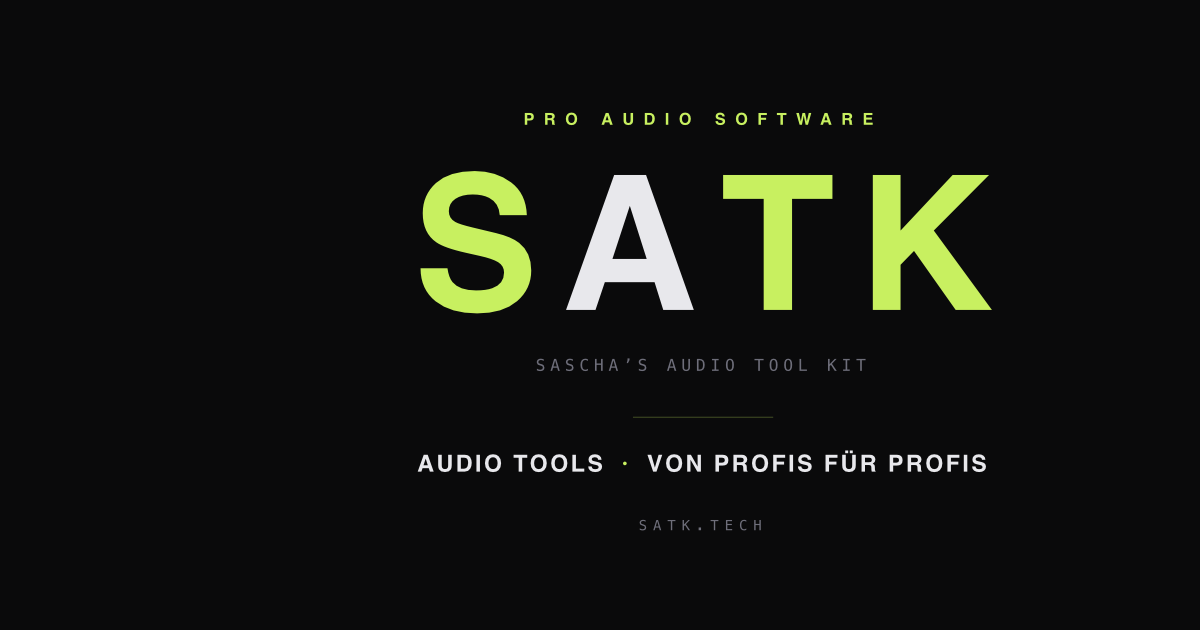
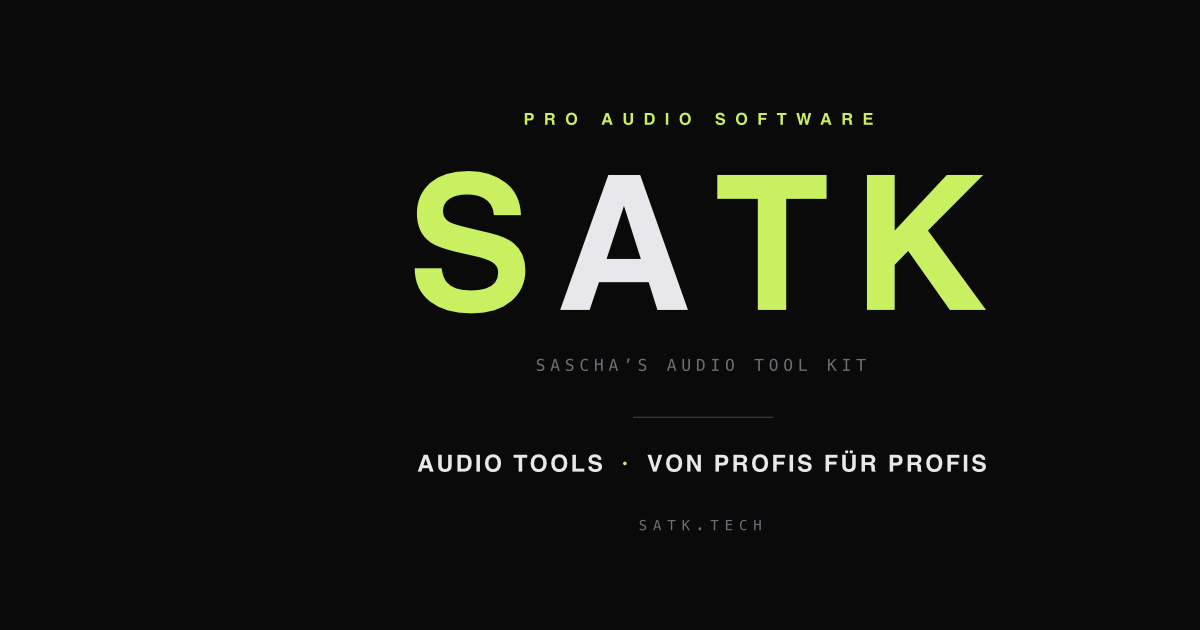
SEO Polish: og-image mittig, sitemap mit neuen Seiten, og-Tags auf 6 Seiten (index, shop, broadcast-meter-pro, overdub-studio-pro, loudness-correct, support)

diff --git a/overdub-studio-pro.html b/overdub-studio-pro.html
@@ -5,6 +5,21 @@
 <meta name="viewport" content="width=device-width, initial-scale=1.0">
 <title>SATK Overdub Studio – Voice-Over gegen Bewegtbild, broadcast-grade</title>
 <meta name="description" content="SATK Overdub Studio: Video laden, Skript laden, sprechen, fertig. Auto Edit, AutoMix mit EBU R128, Smart Prompter, MXF Round-Trip — die App für Voice-Over-Produktion gegen Bewegtbild auf macOS.">
+
+<!-- Open Graph / Social -->
+<meta property="og:type" content="website">
+<meta property="og:title" content="SATK Overdub Studio – Voice-Over gegen Bewegtbild">
+<meta property="og:description" content="Video laden, Skript laden, sprechen, fertig. Auto Edit, AutoMix mit EBU R128, Smart Prompter, MXF Round-Trip — broadcast-grade auf macOS.">
+<meta property="og:url" content="https://satk.tech/overdub-studio-pro.html">
+<meta property="og:image" content="https://satk.tech/og-image.png">
+<meta property="og:image:width" content="1200">
+<meta property="og:image:height" content="630">
+<meta property="og:site_name" content="SATK – Sascha&rsquo;s Audio Tool Kit">
+<meta property="og:locale" content="de_DE">
+<meta name="twitter:card" content="summary_large_image">
+<meta name="twitter:title" content="SATK Overdub Studio – Voice-Over gegen Bewegtbild">
+<meta name="twitter:description" content="Video laden, Skript laden, sprechen, fertig. AutoMix R128, Smart Prompter, MXF Round-Trip auf macOS.">
+<meta name="twitter:image" content="https://satk.tech/og-image.png">
 <link rel="preconnect" href="https://fonts.googleapis.com">
 <link href="https://fonts.googleapis.com/css2?family=DM+Mono:wght@300;400;500&family=Syne:wght@400;600;700;800&display=swap" rel="stylesheet">
 <style>

diff --git a/broadcast-meter-pro.html b/broadcast-meter-pro.html
@@ -5,6 +5,21 @@
 <meta name="viewport" content="width=device-width, initial-scale=1.0">
 <title>SATK Broadcast Meter – EBU R128 Plugin & App für Broadcast</title>
 <meta name="description" content="EBU R128 / ITU-R BS.1770-4 Loudness-Metering: PPM, LUFS, True Peak, FFT, Goniometer, Sprachklarheit. Plugin (VST3/AU), macOS-, iPad- und iPhone-App.">
+
+<!-- Open Graph / Social -->
+<meta property="og:type" content="website">
+<meta property="og:title" content="SATK Broadcast Meter – EBU R128 Plugin &amp; App">
+<meta property="og:description" content="Loudness-Metering nach EBU R128 / ITU-R BS.1770-4. Plugin, macOS, iPad und iPhone Mini — mit KI-gestützter Sprachklarheit und Live-Forecast.">
+<meta property="og:url" content="https://satk.tech/broadcast-meter-pro.html">
+<meta property="og:image" content="https://satk.tech/og-image.png">
+<meta property="og:image:width" content="1200">
+<meta property="og:image:height" content="630">
+<meta property="og:site_name" content="SATK – Sascha&rsquo;s Audio Tool Kit">
+<meta property="og:locale" content="de_DE">
+<meta name="twitter:card" content="summary_large_image">
+<meta name="twitter:title" content="SATK Broadcast Meter – EBU R128 Plugin &amp; App">
+<meta name="twitter:description" content="Loudness-Metering nach EBU R128 / ITU-R BS.1770-4. Plugin, macOS, iPad und iPhone Mini — mit KI-gestützter Sprachklarheit und Live-Forecast.">
+<meta name="twitter:image" content="https://satk.tech/og-image.png">
 <link rel="preconnect" href="https://fonts.googleapis.com">
 <link href="https://fonts.googleapis.com/css2?family=DM+Mono:wght@300;400;500&family=Syne:wght@400;600;700;800&display=swap" rel="stylesheet">
 <style>

diff --git a/loudness-correct.html b/loudness-correct.html
@@ -5,6 +5,21 @@
 <meta name="viewport" content="width=device-width, initial-scale=1.0">
 <title>SATK Loudness Correct – EBU R128 / ITU-R BS.1770-4 Loudness-Korrektur</title>
 <meta name="description" content="Offline-Lautheitskorrektur nach EBU R128, ATSC A/85, Netflix, Spotify, YouTube & Co. Two-Pass mit Verify-and-Refine auf ±0,1 LU. macOS Standalone + iPad.">
+
+<!-- Open Graph / Social -->
+<meta property="og:type" content="website">
+<meta property="og:title" content="SATK Loudness Correct – EBU R128 Loudness-Korrektur">
+<meta property="og:description" content="Offline-Lautheitskorrektur. Two-Pass mit Verify-and-Refine auf ±0,1 LU. 16 Delivery-Presets (EBU R128, ATSC A/85, Netflix, Spotify, YouTube). macOS + iPad.">
+<meta property="og:url" content="https://satk.tech/loudness-correct.html">
+<meta property="og:image" content="https://satk.tech/og-image.png">
+<meta property="og:image:width" content="1200">
+<meta property="og:image:height" content="630">
+<meta property="og:site_name" content="SATK – Sascha&rsquo;s Audio Tool Kit">
+<meta property="og:locale" content="de_DE">
+<meta name="twitter:card" content="summary_large_image">
+<meta name="twitter:title" content="SATK Loudness Correct – EBU R128 Loudness-Korrektur">
+<meta name="twitter:description" content="Offline R128 / ITU-R BS.1770-4. 16 Delivery-Presets, Verify-and-Refine, Mono bis 9.1.6.">
+<meta name="twitter:image" content="https://satk.tech/og-image.png">
 <link rel="preconnect" href="https://fonts.googleapis.com">
 <link href="https://fonts.googleapis.com/css2?family=DM+Mono:wght@300;400;500&family=Syne:wght@400;600;700;800&display=swap" rel="stylesheet">
 <style>

diff --git a/index.html b/index.html
@@ -5,6 +5,22 @@
 <meta name="viewport" content="width=device-width, initial-scale=1.0">
 <title>SATK Shop – Professional Audio Software</title>
 <meta name="description" content="SATK Pro Software: Broadcast Meter, Overdub Studio, Loudness Correct. Plugin VST3/AU, macOS- und iPad-Apps für Broadcast und Postproduktion.">
+
+<!-- Open Graph / Social -->
+<meta property="og:type" content="website">
+<meta property="og:title" content="SATK – Pro Audio Software für Broadcast &amp; Postproduktion">
+<meta property="og:description" content="Apps und Plugins für professionelle Medienproduktionen. Broadcast Meter, Overdub Studio, Loudness Correct.">
+<meta property="og:url" content="https://satk.tech/">
+<meta property="og:image" content="https://satk.tech/og-image.png">
+<meta property="og:image:width" content="1200">
+<meta property="og:image:height" content="630">
+<meta property="og:site_name" content="SATK – Sascha&rsquo;s Audio Tool Kit">
+<meta property="og:locale" content="de_DE">
+<meta property="og:locale:alternate" content="en_US">
+<meta name="twitter:card" content="summary_large_image">
+<meta name="twitter:title" content="SATK – Pro Audio Software für Broadcast &amp; Postproduktion">
+<meta name="twitter:description" content="Apps und Plugins für professionelle Medienproduktionen. Broadcast Meter, Overdub Studio, Loudness Correct.">
+<meta name="twitter:image" content="https://satk.tech/og-image.png">
 <link rel="preconnect" href="https://fonts.googleapis.com">
 <link href="https://fonts.googleapis.com/css2?family=DM+Mono:wght@300;400;500&family=Syne:wght@400;600;700;800&display=swap" rel="stylesheet">
 <style>

diff --git a/shop.html b/shop.html
@@ -5,6 +5,21 @@
 <meta name="viewport" content="width=device-width, initial-scale=1.0">
 <title>SATK Shop – Professional Audio Software</title>
 <meta name="description" content="SATK Pro Software: Broadcast Meter, Overdub Studio, Loudness Correct. Plugin VST3/AU, macOS- und iPad-Apps für Broadcast und Postproduktion.">
+
+<!-- Open Graph / Social -->
+<meta property="og:type" content="website">
+<meta property="og:title" content="SATK Shop – Pro Audio Software">
+<meta property="og:description" content="Broadcast Meter, Overdub Studio, Loudness Correct — Plugin und Apps für macOS und iPad.">
+<meta property="og:url" content="https://satk.tech/shop.html">
+<meta property="og:image" content="https://satk.tech/og-image.png">
+<meta property="og:image:width" content="1200">
+<meta property="og:image:height" content="630">
+<meta property="og:site_name" content="SATK – Sascha&rsquo;s Audio Tool Kit">
+<meta property="og:locale" content="de_DE">
+<meta name="twitter:card" content="summary_large_image">
+<meta name="twitter:title" content="SATK Shop – Pro Audio Software">
+<meta name="twitter:description" content="Broadcast Meter, Overdub Studio, Loudness Correct — Plugin und Apps für macOS und iPad.">
+<meta name="twitter:image" content="https://satk.tech/og-image.png">
 <link rel="preconnect" href="https://fonts.googleapis.com">
 <link href="https://fonts.googleapis.com/css2?family=DM+Mono:wght@300;400;500&family=Syne:wght@400;600;700;800&display=swap" rel="stylesheet">
 <style>

diff --git a/support.html b/support.html
@@ -5,6 +5,21 @@
 <meta name="viewport" content="width=device-width, initial-scale=1.0">
 <title>SATK Support – Kontakt &amp; Hilfe</title>
 <meta name="description" content="Support und Kontakt für SATK Broadcast Meter, Overdub Studio und Loudness Correct. E-Mail-Support direkt vom Entwickler.">
+
+<!-- Open Graph / Social -->
+<meta property="og:type" content="website">
+<meta property="og:title" content="SATK Support – Kontakt &amp; Hilfe">
+<meta property="og:description" content="E-Mail-Support direkt vom Entwickler. Keine Warteschlangen, keine Chatbots. Antwort meist innerhalb 24 Stunden.">
+<meta property="og:url" content="https://satk.tech/support.html">
+<meta property="og:image" content="https://satk.tech/og-image.png">
+<meta property="og:image:width" content="1200">
+<meta property="og:image:height" content="630">
+<meta property="og:site_name" content="SATK – Sascha&rsquo;s Audio Tool Kit">
+<meta property="og:locale" content="de_DE">
+<meta name="twitter:card" content="summary_large_image">
+<meta name="twitter:title" content="SATK Support – Kontakt &amp; Hilfe">
+<meta name="twitter:description" content="E-Mail-Support direkt vom Entwickler. Antwort meist innerhalb 24 Stunden.">
+<meta name="twitter:image" content="https://satk.tech/og-image.png">
 <link rel="preconnect" href="https://fonts.googleapis.com">
 <link href="https://fonts.googleapis.com/css2?family=DM+Mono:wght@300;400;500&family=Syne:wght@400;600;700;800&display=swap" rel="stylesheet">
 <style>
